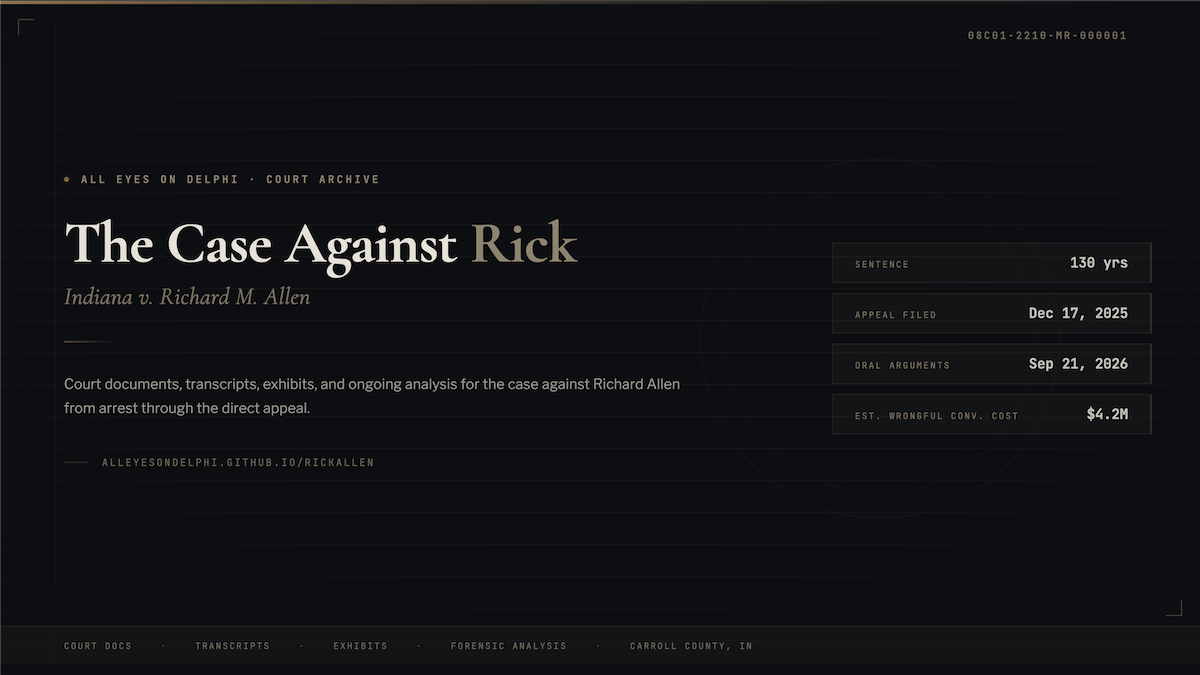
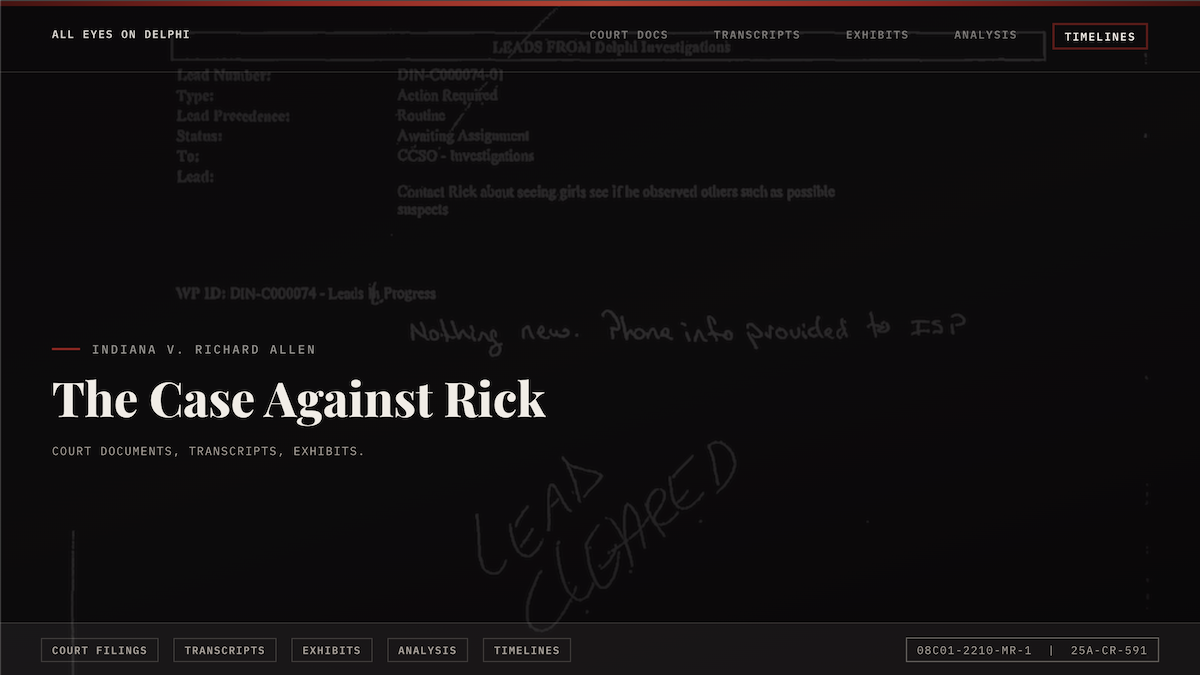
home preview

diff --git a/rick-homepage-preview.html b/rick-homepage-preview.html
@@ -1,0 +1,227 @@
+<!DOCTYPE html>
+<html lang="en"><head><meta http-equiv="Content-Type" content="text/html; charset=UTF-8">
+
+<style>
+  @import url('https://fonts.googleapis.com/css2?family=IBM+Plex+Mono:wght@400;500;600&family=Playfair+Display:ital,wght@0,700;0,800;1,700&display=swap');
+
+  *, *::before, *::after { 
+    box-sizing: border-box; 
+    margin: 0; 
+    padding: 0; 
+  }
+  body {
+    width: 1200px;
+    height: 675px;
+    overflow: hidden;
+    -webkit-font-smoothing: antialiased;
+  }
+  :root {
+    --ink:   #0e0e0f;
+    --paper: #f2ede6;
+    --aged:  #e0d8cc;
+    --red:   #9b1c1c;
+    --steel: #3a4a5c;
+    --muted: #aaa199;
+  }
+  .card {
+    width: 1200px;
+    height: 675px;
+    display: flex;
+    flex-direction: column;
+    overflow: hidden;
+    position: relative;
+  }
+  .card::before {
+    content: '';
+    position: absolute;
+    top: 0; left: 0; right: 0;
+    height: 5px;
+    z-index: 10;
+    background: linear-gradient(to right, #4a0e0e, #9b1c1c, #c0392b, #9b1c1c, #4a0e0e);
+  }
+
+  /* ── Full-bleed background ── */
+  .bg {
+    position: absolute;
+    inset: 0;
+    background-image: url('/Users/home/Documents/sites/rickallen/assets/img/hero-img.png');
+    background-size: cover;
+    background-position: center top;
+    filter: grayscale(30%) contrast(0.75) brightness(0.55);
+  }
+  .bg-overlay {
+    position: absolute;
+    inset: 0;
+    background: linear-gradient(
+      160deg,
+      rgba(8, 5, 7, 0.78) 0%,
+      rgba(8, 5, 7, 0.65) 50%,
+      rgba(8, 5, 7, 0.90) 100%
+    );
+  }
+  /* ── Top bar ── */
+  .top-bar {
+    position: relative;
+    z-index: 2;
+    display: flex;
+    align-items: center;
+    justify-content: space-between;
+    padding: 22px 52px;
+    border-bottom: 1px solid rgba(224, 216, 204, 0.15);
+  }
+  .top-brand {
+    font-family: 'IBM Plex Mono', monospace;
+    font-size: 11px;
+    font-weight: 600;
+    letter-spacing: 0.1em;
+    text-transform: uppercase;
+    color: var(--paper);
+    opacity: 0.9;
+    margin-top: -0.5%;
+  }
+  .top-nav {
+    display: flex;
+    gap: 25px;
+  }
+  .top-nav span {
+    font-family: 'IBM Plex Mono', monospace;
+    font-size: 11px;
+    letter-spacing: 0.12em;
+    text-transform: uppercase;
+    color: rgba(242, 237, 230, 0.45);
+    font-weight: 600;
+    padding: 4px 10px;
+  }
+  .top-nav span.active {
+    color: var(--paper);
+    padding: 4px 10px;
+    border: 2px solid rgba(155, 28, 28, 0.6);
+  }
+  /* ── Main content ── */
+  .main {
+    position: relative;
+    z-index: 2;
+    flex: 1;
+    display: flex;
+    flex-direction: column;
+    justify-content: flex-end;
+    padding: 0 52px 44px;
+  }
+  .cover-eyebrow {
+    display: flex;
+    align-items: center;
+    gap: 12px;
+    margin-bottom: 16px;
+  }
+  .eyebrow-rule {
+    width: 28px;
+    height: 2px;
+    background: var(--red);
+    flex-shrink: 0;
+  }
+  .eyebrow-label {
+    font-family: 'IBM Plex Mono', monospace;
+    font-size: 12px;
+    font-weight: 500;
+    letter-spacing: 0.18em;
+    text-transform: uppercase;
+    color: rgba(242, 237, 230, 0.6);
+  }
+  .cover-head {
+    font-family: 'Playfair Display', Georgia, serif;
+    font-size: 3rem;
+    font-weight: 800;
+    color: var(--paper);
+    line-height: 1.0;
+    margin-bottom: 2%;
+  }
+  .cover-head em {
+    font-style: italic;
+    font-weight: 700;
+    color: rgba(242, 237, 230, 0.55);
+  }
+  .cover-sub {
+    font-family: 'IBM Plex Mono', monospace;
+    font-size: 11.5px;
+    letter-spacing: 0.1em;
+    text-transform: uppercase;
+    color: var(--muted);
+    margin-bottom: 11%;
+  }
+  /* ── Bottom strip ── */
+  .bottom-strip {
+    position: relative;
+    z-index: 2;
+    display: flex;
+    align-items: center;
+    justify-content: space-between;
+    padding: 14px 52px;
+    background: rgba(242, 237, 230, 0.06);
+    border-top: 1px solid rgba(224, 216, 204, 0.15);
+  }
+  .tags {
+    display: flex;
+    gap: 15px;
+    margin-left: -1%;
+  }
+  .tag {
+    font-family: 'IBM Plex Mono', monospace;
+    font-size: 10.5px;
+    letter-spacing: 0.1em;
+    font-weight: 600;
+    text-transform: uppercase;
+    color: var(--muted);
+    padding: 4px 10px;
+    border: 1px solid rgba(224, 216, 204, 0.2);
+  }
+  .case-num {
+    font-family: 'IBM Plex Mono', monospace;
+    font-size: 11px;
+    letter-spacing: 0.1em;
+    text-transform: uppercase;
+    color: var(--muted);
+    padding: 4px 10px;
+    border: 1px solid rgba(224, 216, 204, 0.4);
+    margin-right: -1%;
+  }
+</style>
+</head>
+<body>
+
+<div class="card">
+  <div class="bg"></div>
+  <div class="bg-overlay"></div>
+
+  <div class="top-bar">
+    <span class="top-brand">All Eyes on Delphi</span>
+    <div class="top-nav">
+      <span>Court Docs</span>
+      <span>Transcripts</span>
+      <span>Exhibits</span>
+      <span>Analysis</span>
+      <span class="active">Timelines</span>
+    </div>
+  </div>
+
+  <div class="main">
+    <div class="cover-eyebrow">
+      <div class="eyebrow-rule"></div>
+      <span class="eyebrow-label">Indiana v. Richard Allen</span>
+    </div>
+    <div class="cover-head">The Case Against Rick</div>
+    <div class="cover-sub">Court documents, transcripts, exhibits.</div>
+  </div>
+
+  <div class="bottom-strip">
+    <div class="tags">
+      <span class="tag">Court Filings</span>
+      <span class="tag">Transcripts</span>
+      <span class="tag">Exhibits</span>
+      <span class="tag">Analysis</span>
+      <span class="tag">Timelines</span>
+    </div>
+    <span class="case-num">08C01-2210-MR-1 &nbsp;|&nbsp; 25A-CR-591</span>
+  </div>
+</div>
+
+</body></html>

diff --git a/index.html b/index.html
@@ -6,21 +6,28 @@
   <title>The Case Against Rick</title>
   <meta name="description" content="Court documents, transcripts, exhibits, and ongoing analysis for the case against Richard Allen from arrest through the direct appeal.">
   <link rel="canonical" href="https://alleyesondelphi.github.io/rickallen">
+  <!-- Open Graph -->
   <meta property="og:title" content="The Case Against Rick">
   <meta property="og:description" content="Court documents, transcripts, exhibits, and ongoing analysis for the case against Richard Allen from arrest through the direct appeal.">
   <meta property="og:type" content="website">
   <meta property="og:url" content="https://alleyesondelphi.github.io/rickallen">
-  <meta property="og:image" content="https://alleyesondelphi.github.io/rickallen/assets/preview/home.png">
+  <meta property="og:image" content="https://alleyesondelphi.github.io/rickallen/assets/preview/appellate.png">
+    <meta property="og:image:width" content="1200">
+  <meta property="og:image:height" content="675">
   <meta property="og:site_name" content="IN v. RA | All Eyes on Delphi">
+  <!-- Twitter -->
   <meta name="twitter:card" content="summary_large_image">
   <meta name="twitter:title" content="The Case Against Rick">
   <meta name="twitter:description" content="Court documents, transcripts, exhibits, and ongoing analysis for the case against Richard Allen from arrest through the direct appeal.">
   <meta name="twitter:image" content="https://alleyesondelphi.github.io/rickallen/assets/preview/home.png">
   <meta name="twitter:creator" content="@alleyesondelphi">
+  <!-- Favicons -->
   <link href="https://alleyesondelphi.github.io/rickallen/assets/icons/favicon.ico" rel="icon" sizes="any">
   <link rel="apple-touch-icon" sizes="180x180" href="https://alleyesondelphi.github.io/rickallen/assets/icons/icon-180.png">
+  <!-- Fonts -->
   <link rel="preconnect" href="https://fonts.googleapis.com">
   <link rel="preconnect" href="https://fonts.gstatic.com" crossorigin>
+  <!-- Styles -->
   <link href="https://fonts.googleapis.com/css2?family=IBM+Plex+Mono:ital,wght@0,400;0,600;1,400&family=Playfair+Display:ital,wght@0,700;0,800;1,700&family=Source+Serif+4:ital,opsz,wght@0,8..60,400;0,8..60,600;1,8..60,400&display=swap" rel="stylesheet">
   <style>
     *, *::before, *::after { 
